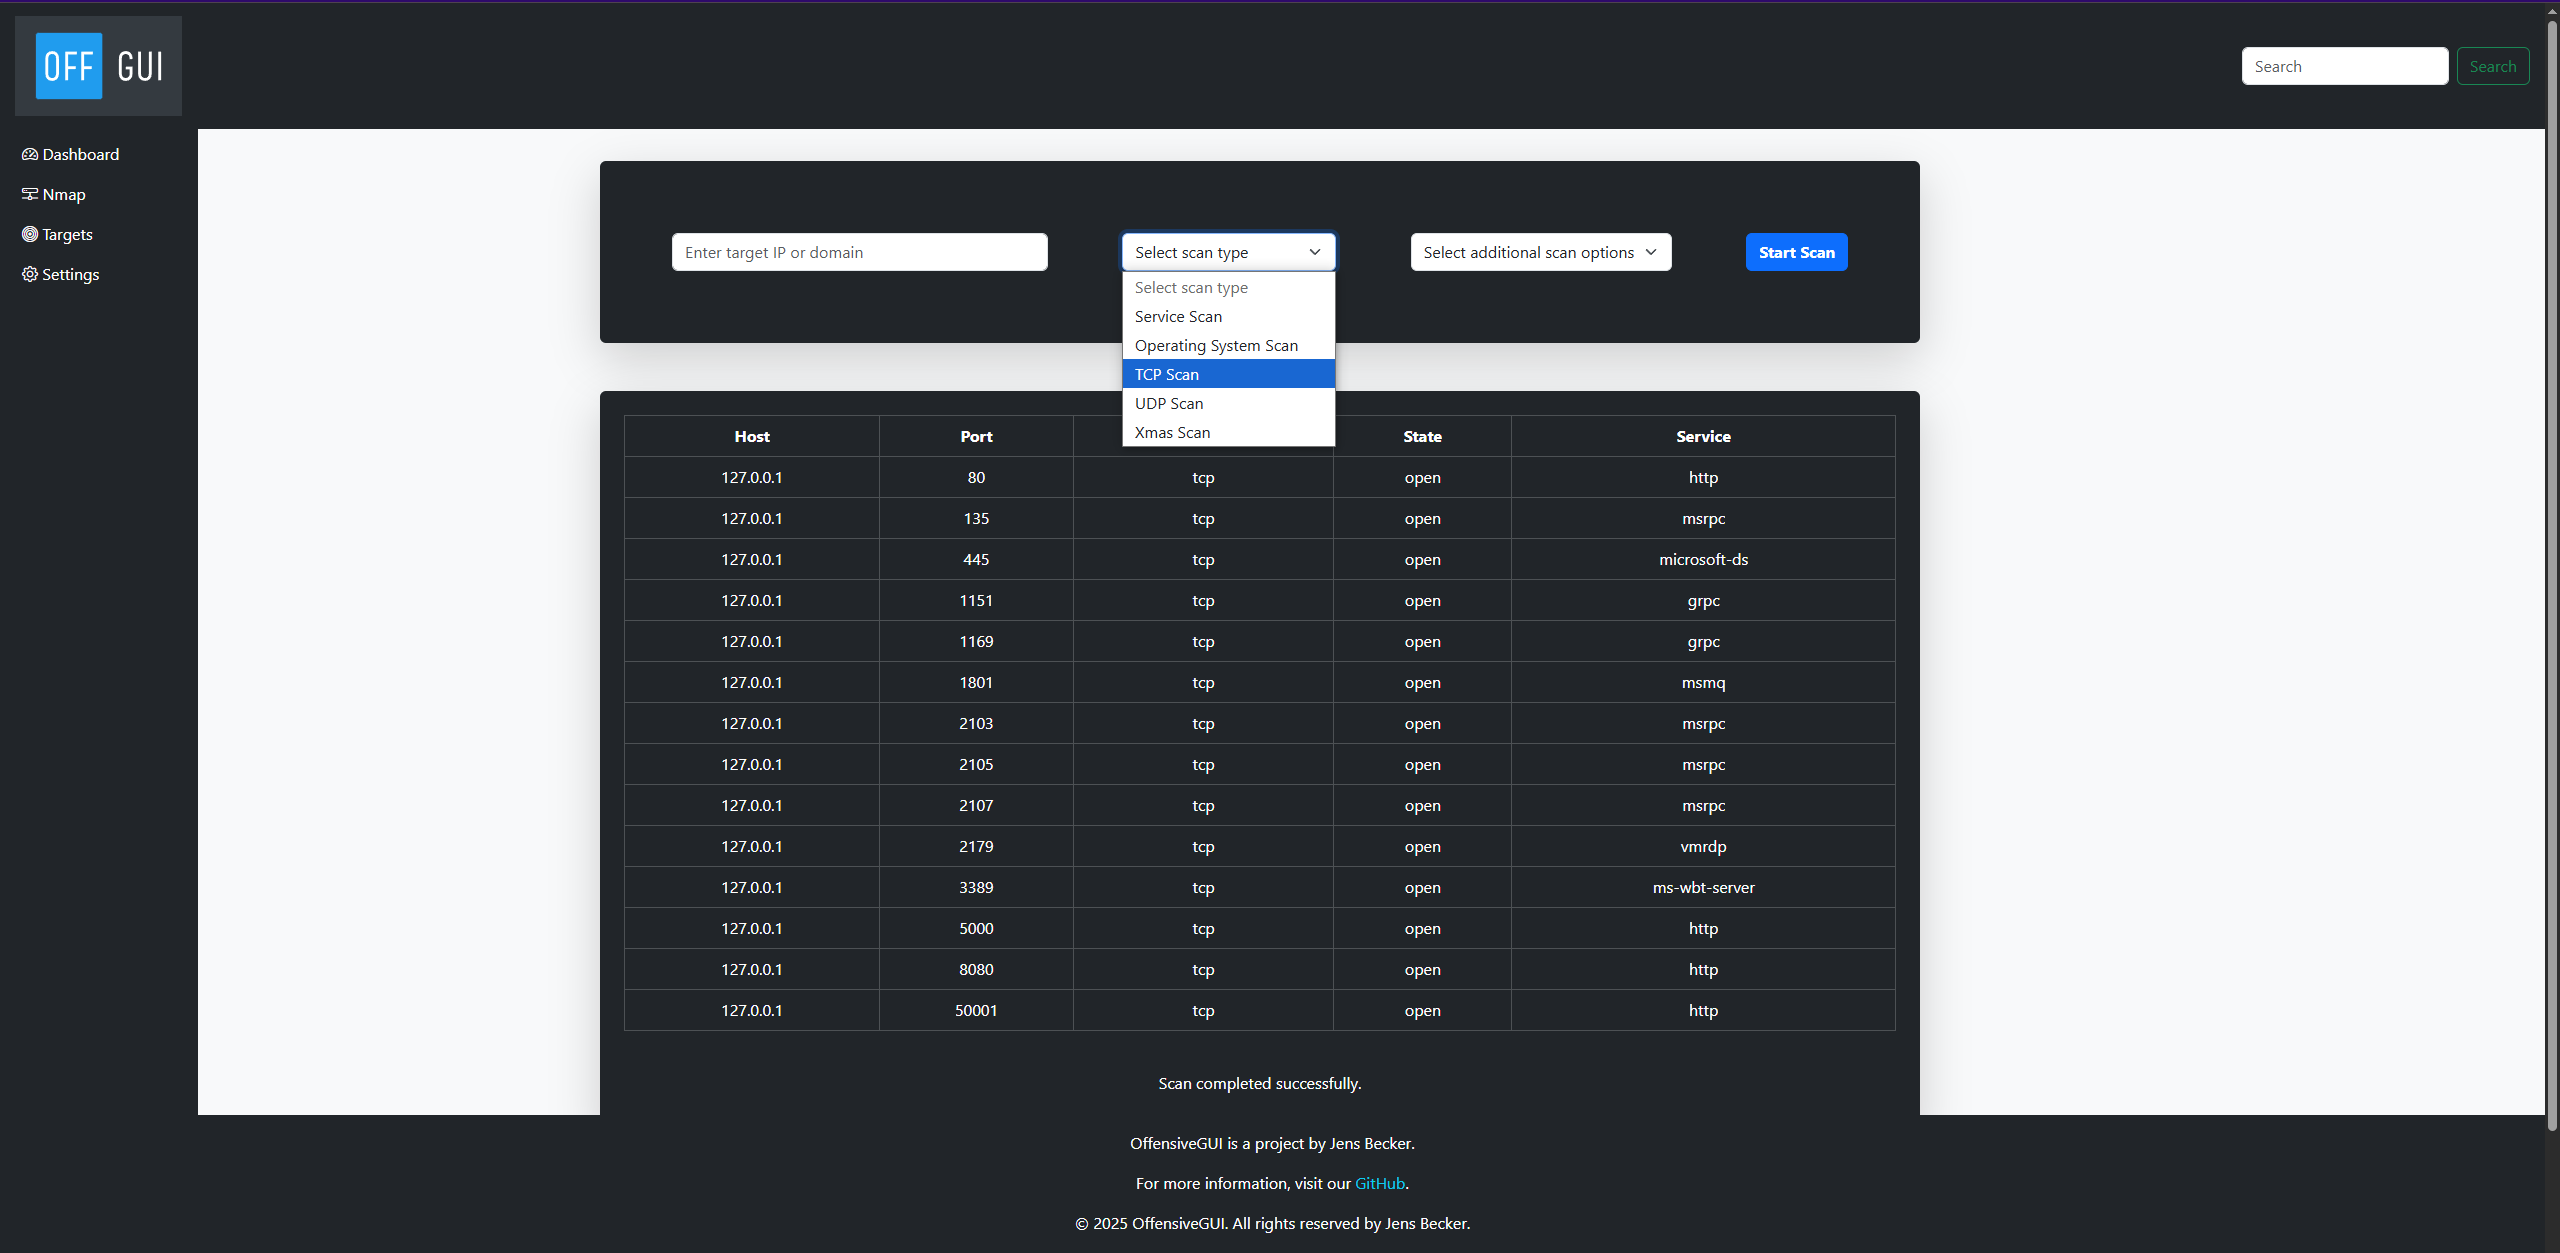
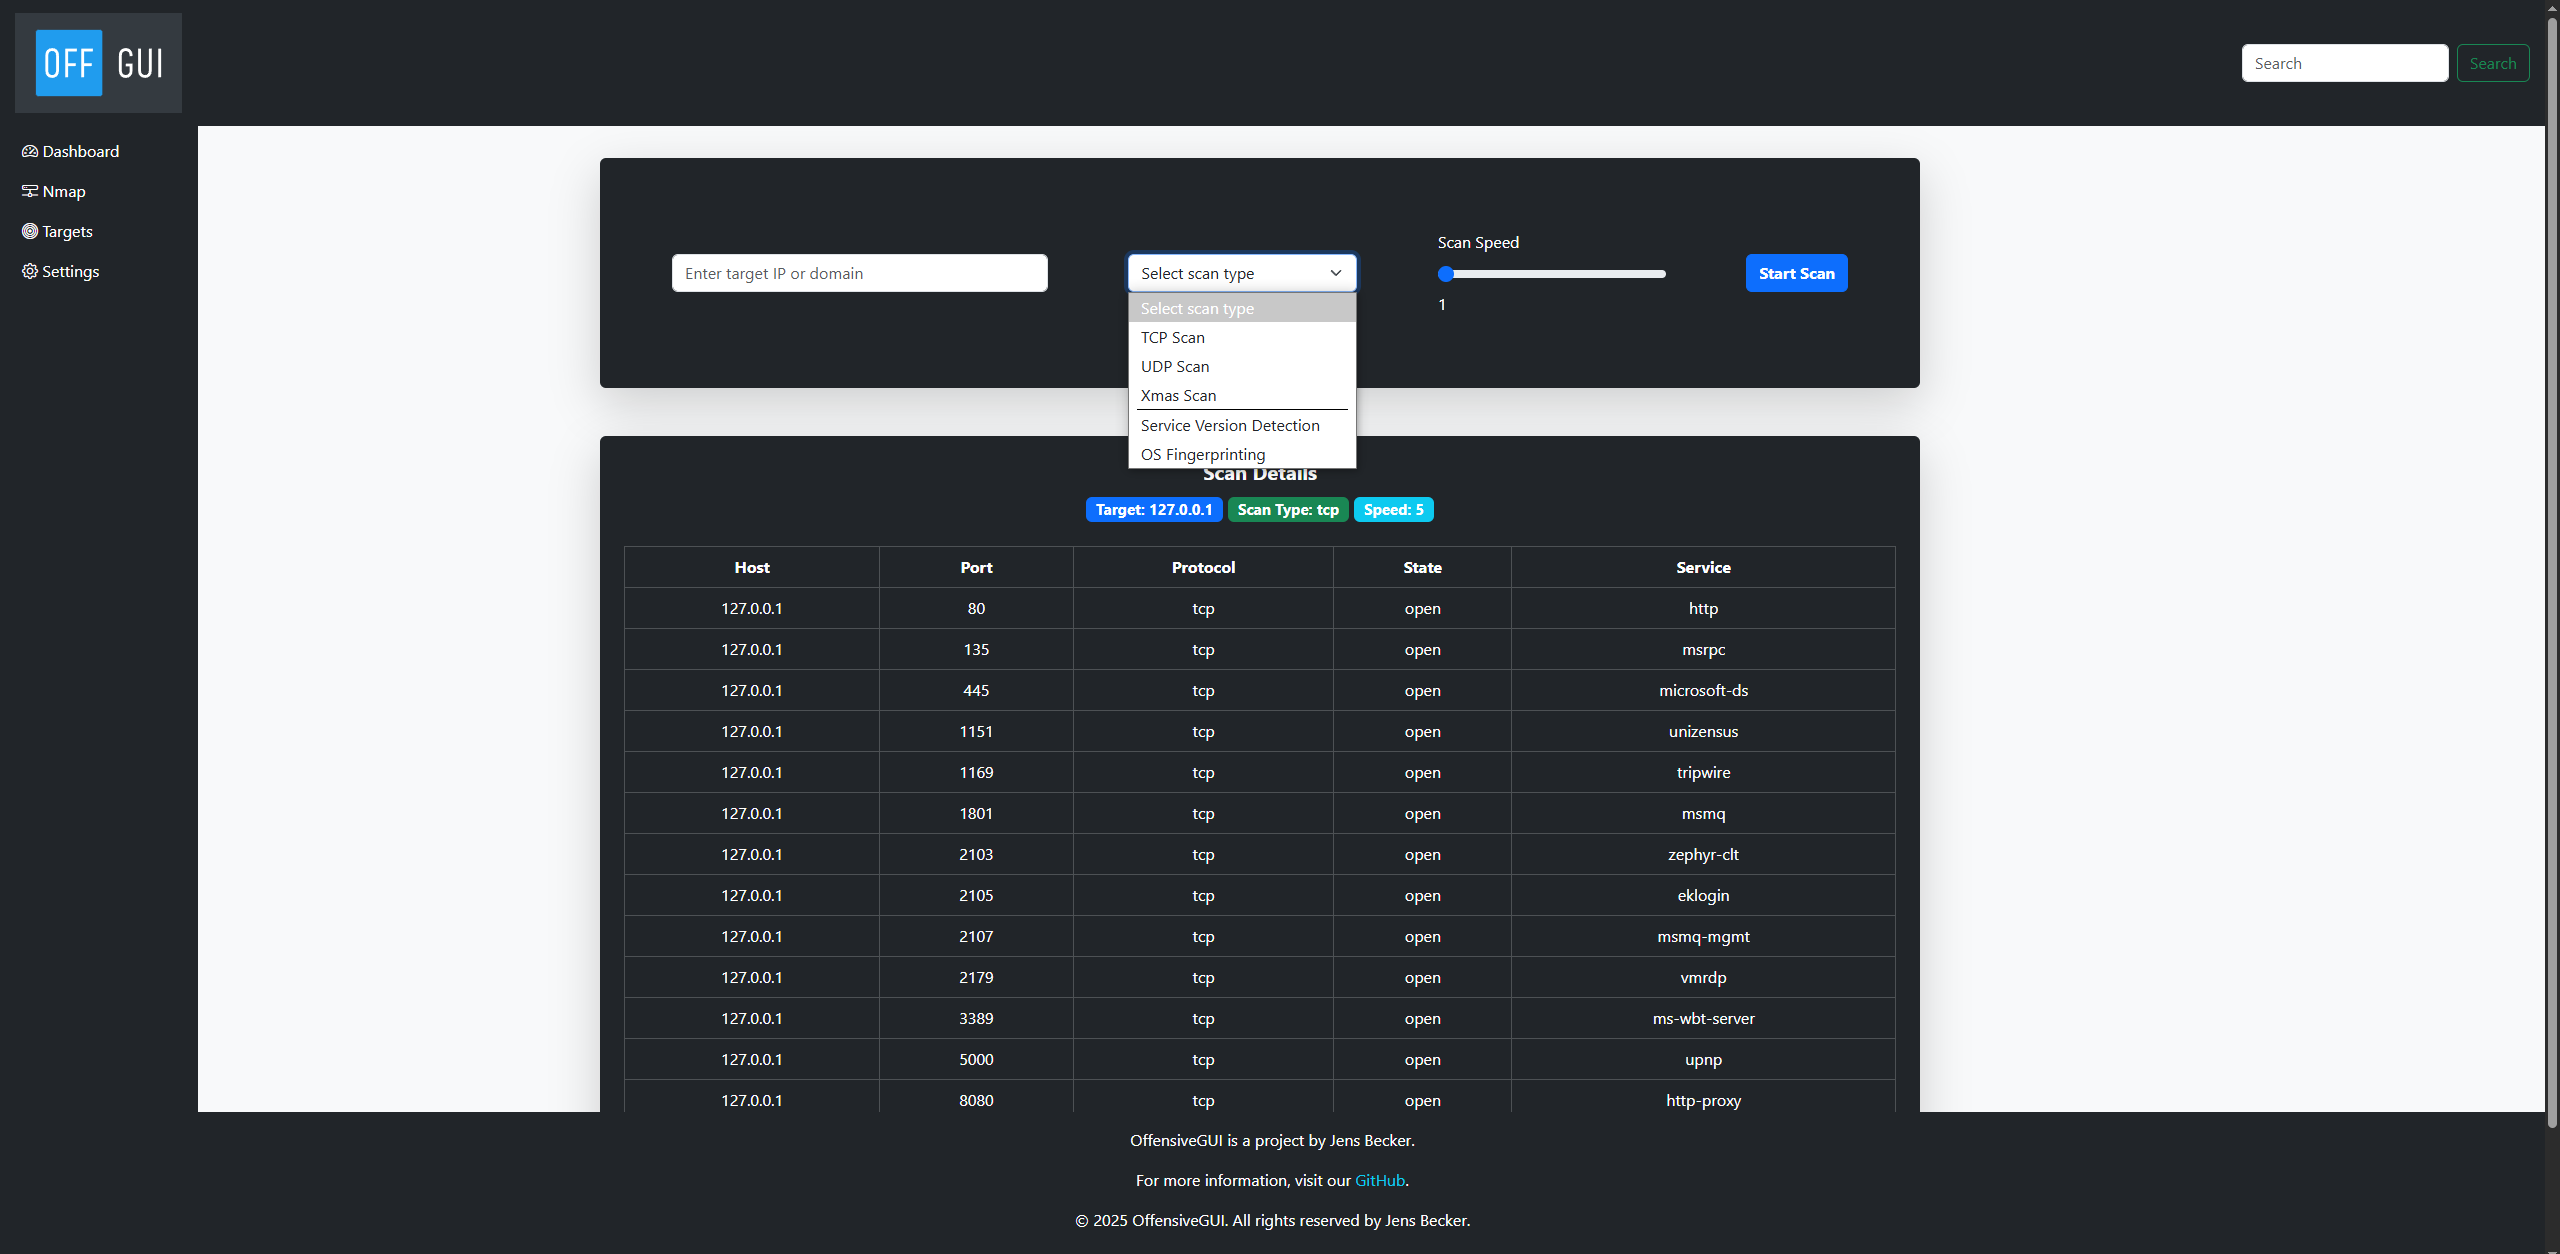
Refactor nmap scanning functionality to support scan speed, update templates for improved user feedback, and remove unnecessary scripts from HTML files

diff --git a/templates/base.html b/templates/base.html
@@ -11,7 +11,6 @@
         <!-- Custom CSS -->
         <link rel="stylesheet" href="{{ url_for('static', filename='css/styles.css') }}">
         <link rel="icon" href="{{ url_for('static', filename='images/logo.svg') }}" type="image/x-icon">
-        <script src="{{ url_for('static', filename='js/index.js') }}"></script>
     </head>
 
     <header>
@@ -20,14 +19,8 @@
         <meta name="author" content="Jens Becker">
         <meta name="viewport" content="width=device-width, initial-scale=1.0">  
         <meta name="theme-color" content="#000000">
-        <meta name="apple-mobile-web-app-capable" content="yes">
-        <meta name="apple-mobile-web-app-status-bar-style" content="black-translucent">
-        <meta name="apple-mobile-web-app-title" content="OffensiveGUI">
         <meta name="application-name" content="OffensiveGUI">
-        <meta name="msapplication-TileColor" content="#000000">
         <meta name="msapplication-TileImage" content="{{ url_for('static', filename='images/logo.svg') }}">
-        <meta name="msapplication-config" content="{{ url_for('static', filename='images/browserconfig.xml') }}">
-        <link rel="manifest" href="{{ url_for('static', filename='images/manifest.json') }}">
     </header>
 
     <body>
@@ -109,6 +102,5 @@
 
         <!-- Bootstrap JS -->
         <script src="https://cdn.jsdelivr.net/npm/bootstrap@5.3.2/dist/js/bootstrap.bundle.min.js" integrity="sha384-C6RzsynM9kWDrMNeT87bh95OGNyZPhcTNXj1NW7RuBCsyN/o0jlpcV8Qyq46cDfL" crossorigin="anonymous"></script>
-        <script src="{{ url_for('static', filename='js/index.js') }}"></script>
     </body>
 </html>

diff --git a/templates/nmap.html b/templates/nmap.html
@@ -21,12 +21,9 @@
             </select>
         </div>
         <div class="col-md-4 w-auto">
-            <select id="scan_options" name="scan_options" class="form-select" required>
-                <option value="" disabled selected>Select additional scan options</option>
-                <option value="-F">Fast Scan</option>
-                <option value="-A">Aggressive Scan</option>
-                <option value="-vv">Verbose Output</option>
-            </select>
+            <label for="customRange3" class="form-label">Scan Speed</label>
+            <input type="range" class="form-range" min="1" max="5" step="1" id="scan_speed" name="scan_speed" value="1" oninput="this.nextElementSibling.value = this.value">
+            <output>1</output>
         </div>
         <div class="col-md-4 text-center w-auto">
             <button type="submit" class="btn btn-primary fw-bold">Start Scan</button>
@@ -36,6 +33,14 @@
 <div class="container mt-5 mb-5 bg-dark text-white rounded p-4 shadow-lg">
 
     {% if results %}
+    <div class="text-center mb-4">
+        <h5 class="fw-bold">Scan Details</h5>
+        <p class="fs-5">
+            <span class="badge bg-primary">Target: {{ target }}</span>
+            <span class="badge bg-success">Scan Type: {{ scan_type }}</span>
+            <span class="badge bg-info">Speed: {{ scan_speed }}</span>
+        </p>
+    </div>
 
     <div class="table-responsive">
         <table class="table table-dark table-hover table-bordered align-middle">

diff --git a/templates/index.html b/templates/index.html
@@ -19,14 +19,3 @@ Home - OffensiveGUI
     </div>
 </div>
 {% endblock %}
-
-{% block scripts %}
-<script src="https://cdn.jsdelivr.net/npm/bootstrap@5.3.2/dist/js/bootstrap.bundle.min.js" crossorigin="anonymous"></script>
-<script src="{{ url_for('static', filename='js/index.js') }}"></script>
-<script src="https://cdnjs.cloudflare.com/ajax/libs/three.js/r128/three.min.js"></script>
-<script src="https://cdnjs.cloudflare.com/ajax/libs/three.js/r128/examples/js/controls/OrbitControls.js"></script>
-<script src="https://cdnjs.cloudflare.com/ajax/libs/three.js/r128/examples/js/libs/stats.min.js"></script>
-<script src="https://cdnjs.cloudflare.com/ajax/libs/three.js/r128/examples/js/libs/dat.gui.min.js"></script>
-<script src="https://cdnjs.cloudflare.com/ajax/libs/three.js/r128/examples/js/libs/tween.min.js"></script>
-<script src="https://cdnjs.cloudflare.com/ajax/libs/three.js/r128/examples/js/libs/GLTFLoader.js"></script>
-{% endblock %}

diff --git a/templates/targets.html b/templates/targets.html
@@ -22,13 +22,3 @@
 </div>
 
 {% endblock %}
-
-{% block scripts %}
-<script src="https://cdn.jsdelivr.net/npm/bootstrap@5.3.2/dist/js/bootstrap.bundle.min.js" crossorigin="anonymous"></script>
-<script src="{{ url_for('static', filename='js/index.js') }}"></script>
-{% endblock %}
-
-{% block styles %}
-<link rel="stylesheet" href="https://cdn.jsdelivr.net/npm/bootstrap@5.3.2/dist/css/bootstrap.min.css" crossorigin="anonymous">
-<link rel="stylesheet" href="{{ url_for('static', filename='css/styles.css') }}">
-{% endblock %}

diff --git a/app.py b/app.py
@@ -5,10 +5,12 @@ This module defines a Flask application for performing nmap scans and rendering 
 from flask import Flask, render_template, request, redirect, url_for, flash
 from modules.nmap_scan import nmap_service_scan  # Ensure this module exists and is correctly implemented
 from modules.nmap_scan import nmap_os_scan  # Import the OS scan function
+from modules.nmap_scan import nmap_tcp_scan  # Import the TCP scan function
 from modules.nmap_scan import nmap_udp_scan  # Import the UDP scan function
 from modules.nmap_scan import nmap_xmas_scan  # Import the Xmas scan function
 
 app = Flask(__name__)
+app.secret_key = 'your_secret_key_here'  # Add a secret key for session management
 
 @app.route('/')
 @app.route('/home')
@@ -26,33 +28,35 @@ def nmap_scan_route():
     if request.method == 'POST':
         target = request.form['target']
         scan_type = request.form['scan_type']
-        scan_options = request.form.getlist('scan_options')
+        scan_speed = request.form['scan_speed']
         try:
         
             if scan_type == 'tcp':
-                scan_results = nmap_service_scan(target, scan_options)  # Ensure this function is implemented in nmap_scan.py
+                scan_results = nmap_tcp_scan(target, scan_speed)  # Ensure this function is implemented in nmap_scan.py
                 
             elif scan_type == 'udp':
-                scan_results = nmap_udp_scan(target, scan_options)  # Ensure this function is implemented in nmap_scan.py
+                scan_results = nmap_udp_scan(target, scan_speed)  # Ensure this function is implemented in nmap_scan.py
             
             elif scan_type == 'xmas':
-                scan_results = nmap_xmas_scan(target, scan_options)  # Ensure this function is implemented in nmap_scan.py
+                scan_results = nmap_xmas_scan(target, scan_speed)  # Ensure this function is implemented in nmap_scan.py
             
             elif scan_type == 'service':
-                scan_results = nmap_service_scan(target, scan_options)  # Ensure this function is implemented in nmap_scan.py
+                scan_results = nmap_service_scan(target, scan_speed)  # Ensure this function is implemented in nmap_scan.py
                 
             elif scan_type == 'os':
-                scan_results = nmap_os_scan(target, scan_options)  # Ensure this function is implemented in nmap_scan.py
+                scan_results = nmap_os_scan(target, scan_speed)  # Ensure this function is implemented in nmap_scan.py
                 
             else:
-                scan_results = []
+                results = []
 
-            return render_template('nmap.html', results=scan_results, target=target, scan_type=scan_type)
+            return render_template('nmap.html', target=target, scan_type=scan_type, scan_speed=scan_speed, results=scan_results)
         
-        except Exception as e:
-            return render_template('nmap.html', error=str(e), target=target, scan_type=scan_type)
+        except ValueError as ve:
+            flash(str(ve))
+            return render_template('nmap.html', target=target, scan_type=scan_type, scan_speed=scan_speed, results=[])
         
     else:
+        flash('Please select a scan type and enter a target.')
         return render_template('nmap.html')
     
 @app.route('/targets', methods=['POST', 'GET'])
@@ -67,4 +71,5 @@ def targets():
     return render_template('targets.html')
 
 if __name__ == '__main__':
+
     app.run(debug=True, port=8080)

diff --git a/modules/nmap_scan.py b/modules/nmap_scan.py
@@ -4,7 +4,7 @@ Module for performing nmap scans using the nmap library.
 
 import nmap  # Ensure the python-nmap library is installed
 
-def nmap_tcp_scan(target, scan_options):
+def nmap_tcp_scan(target, scan_speed):
     """
     Perform an Nmap TCP scan on the given target.
 
@@ -22,7 +22,7 @@ def nmap_tcp_scan(target, scan_options):
 
         # Perform a TCP scan (-sS)
         
-        scan_args = f"-sS {scan_options}" if scan_options else "-sS"
+        scan_args = f"-sS -T{scan_speed}" if scan_speed else "-sS"
         scanner.scan(hosts=target, arguments=scan_args)
 
         results = []
@@ -43,7 +43,7 @@ def nmap_tcp_scan(target, scan_options):
     except Exception as e:
         raise RuntimeError(f"Error during Nmap TCP scan: {e}")
 
-def nmap_udp_scan(target, scan_options):
+def nmap_udp_scan(target, scan_speed):
     """
     Perform an Nmap UDP scan on the given target.
 
@@ -60,7 +60,7 @@ def nmap_udp_scan(target, scan_options):
             raise ValueError("Target cannot be empty.")
 
         # Perform a UDP scan (-sU)
-        scan_args = f"-sU {scan_options}" if scan_options else "-sU"
+        scan_args = f"-sU -T{scan_speed}" if scan_speed else "-sU"
         scanner.scan(hosts=target, arguments=scan_args)
 
         results = []
@@ -81,7 +81,7 @@ def nmap_udp_scan(target, scan_options):
     except Exception as e:
         raise RuntimeError(f"Error during Nmap UDP scan: {e}")
     
-def nmap_xmas_scan(target, scan_options):
+def nmap_xmas_scan(target, scan_speed):
     """
     Perform an Nmap Xmas scan on the given target.
 
@@ -98,7 +98,7 @@ def nmap_xmas_scan(target, scan_options):
             raise ValueError("Target cannot be empty.")
 
         # Perform a Xmas scan (-sX)
-        scan_args = f"-sX {scan_options}" if scan_options else "-sX"
+        scan_args = f"-sX -T{scan_speed}" if scan_speed else "-sX"
         scanner.scan(hosts=target, arguments=scan_args)
 
         results = []
@@ -119,7 +119,7 @@ def nmap_xmas_scan(target, scan_options):
     except Exception as e:
         raise RuntimeError(f"Error during Nmap Xmas scan: {e}")
 
-def nmap_service_scan(target, scan_options):
+def nmap_service_scan(target, scan_speed):
     """
     Perform an Nmap service scan on the given target.
 
@@ -136,7 +136,7 @@ def nmap_service_scan(target, scan_options):
             raise ValueError("Target cannot be empty.")
 
         # Perform a service version scan (-sV)
-        scan_args = f"-sV {scan_options}" if scan_options else "-sV"
+        scan_args = f"-sV -T{scan_speed}" if scan_speed else "-sV"
         scanner.scan(hosts=target, arguments=scan_args)
 
         results = []
@@ -157,7 +157,7 @@ def nmap_service_scan(target, scan_options):
     except Exception as e:
         raise RuntimeError(f"Error during Nmap service scan: {e}")
 
-def nmap_os_scan(target, scan_options):
+def nmap_os_scan(target, scan_speed):
     """
     Perform an Nmap OS scan on the given target.
 
@@ -174,7 +174,7 @@ def nmap_os_scan(target, scan_options):
             raise ValueError("Target cannot be empty.")
 
         # Perform an OS detection scan (-O)
-        scan_args = f"-O {scan_options}" if scan_options else "-O"
+        scan_args = f"-O -T{scan_speed}" if scan_speed else "-O"
 
         scanner.scan(hosts=target, arguments=scan_args)
 
